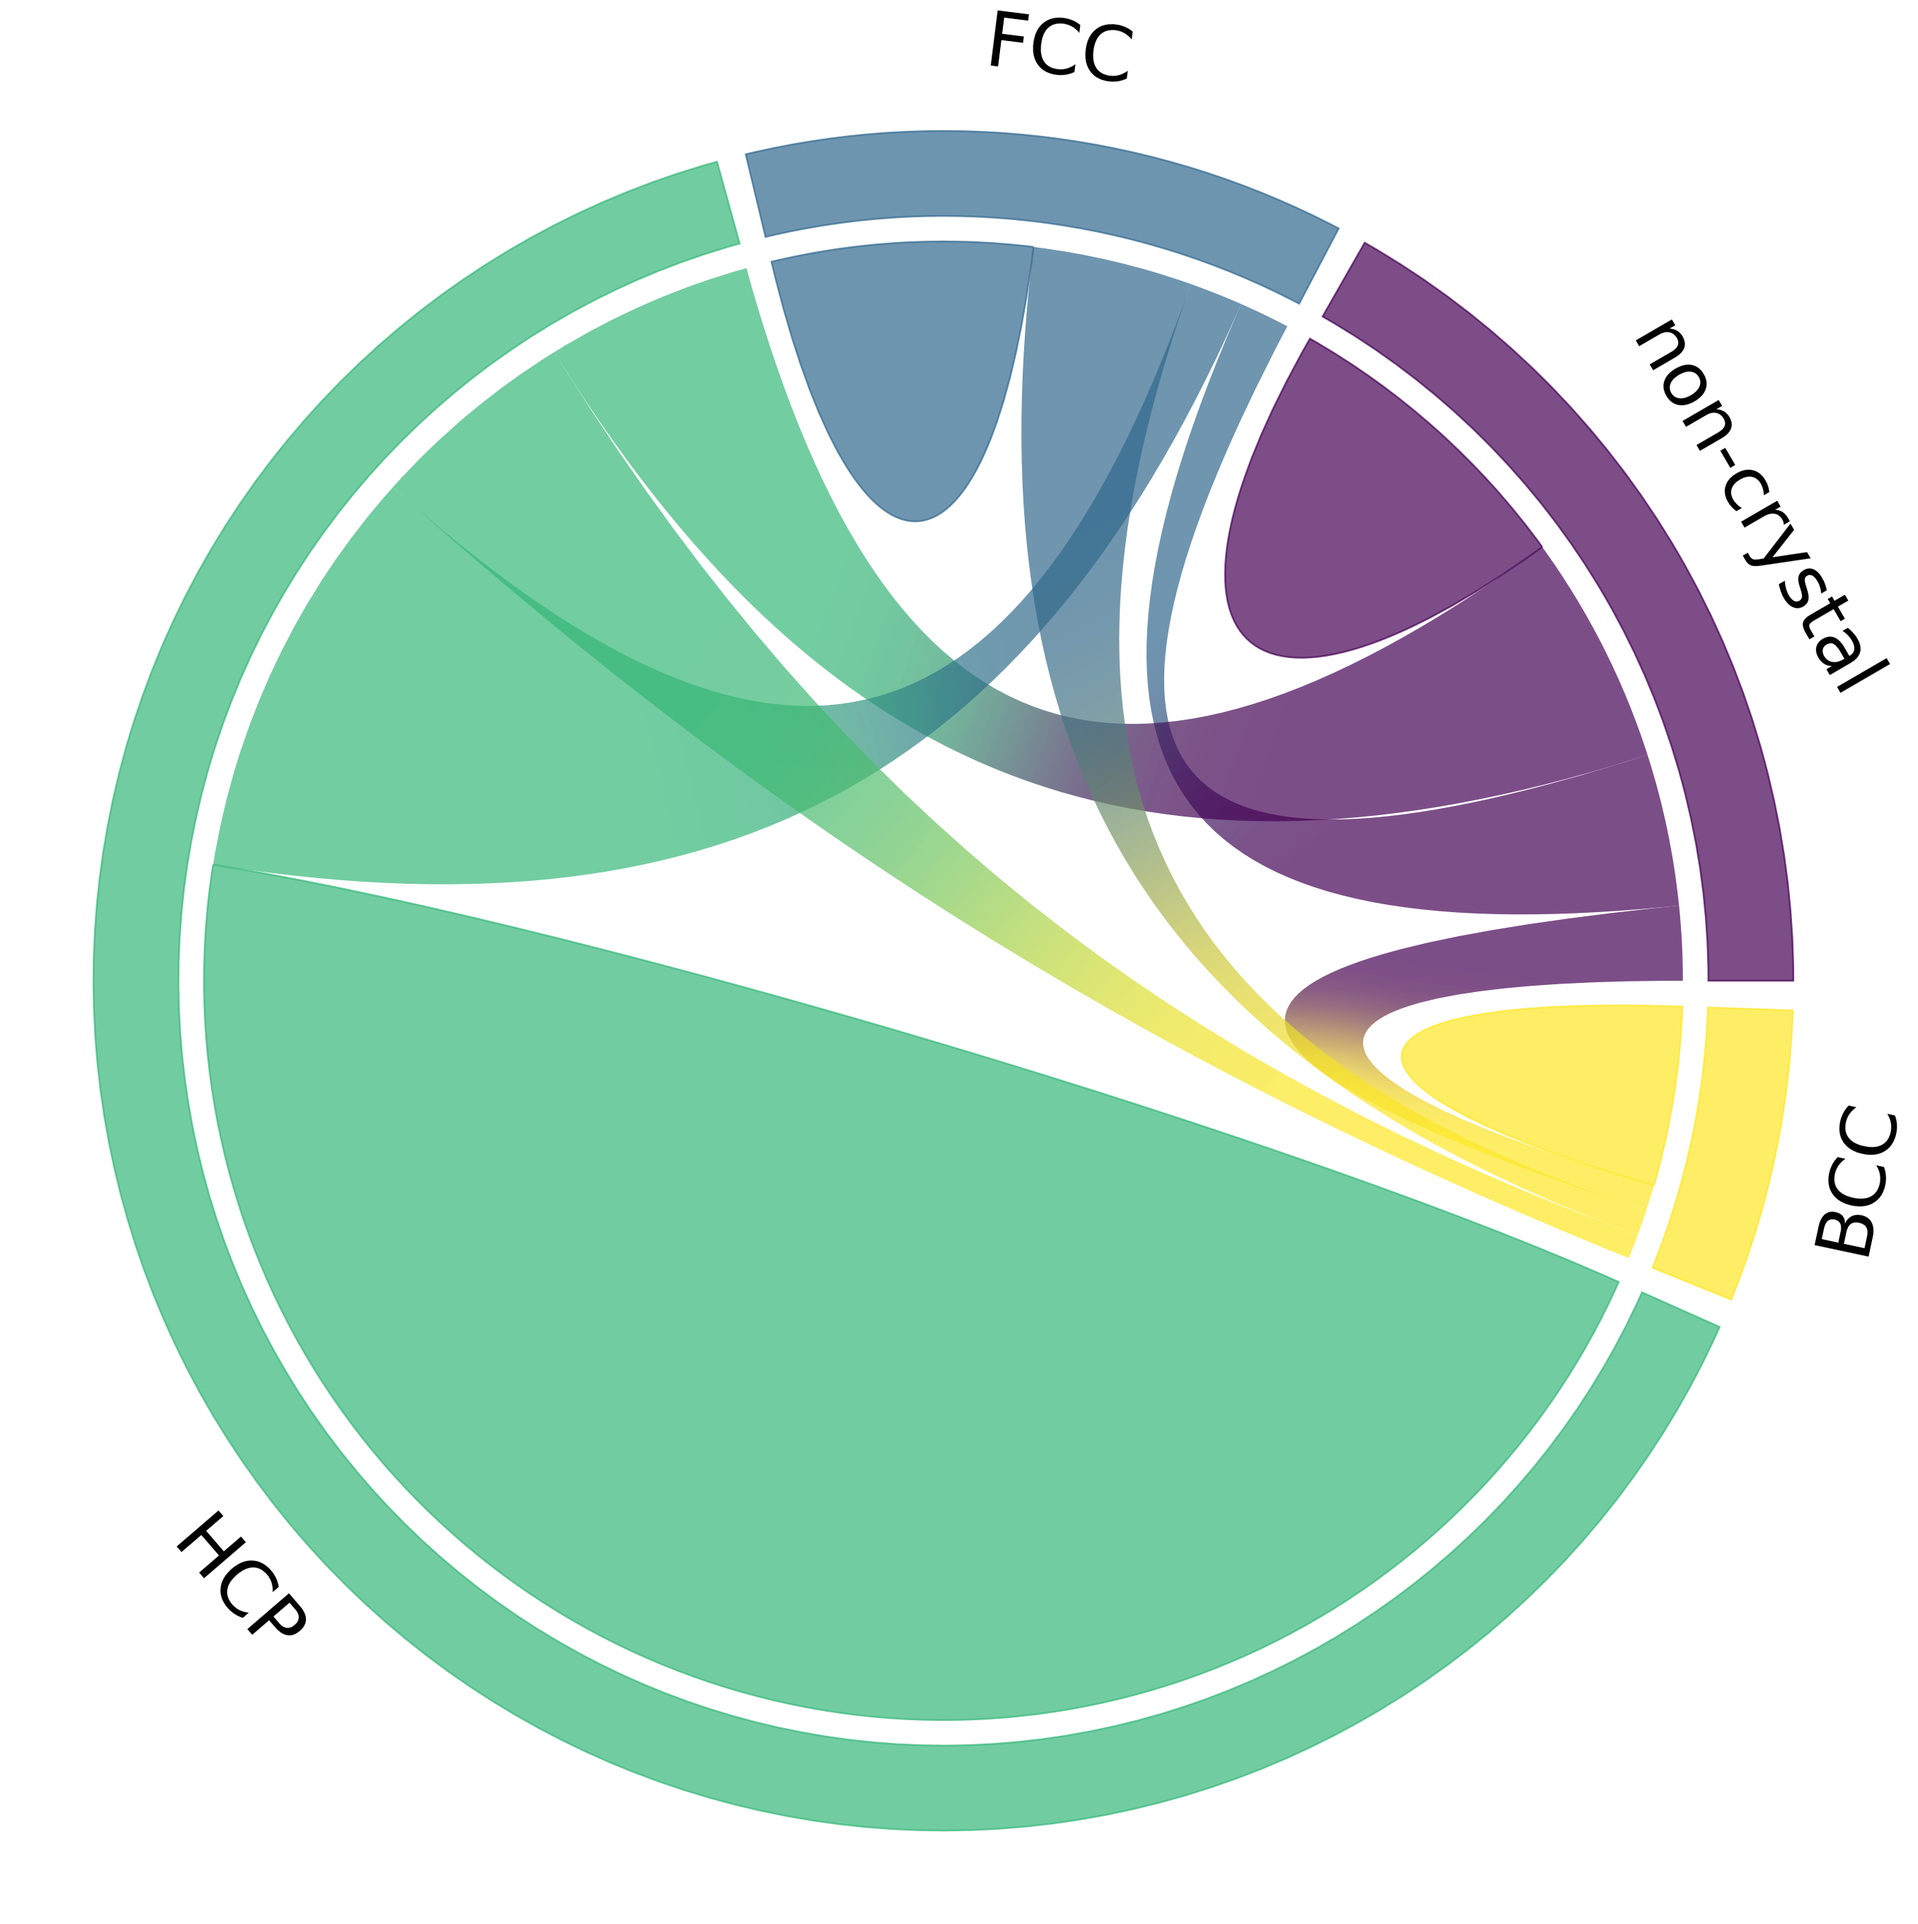
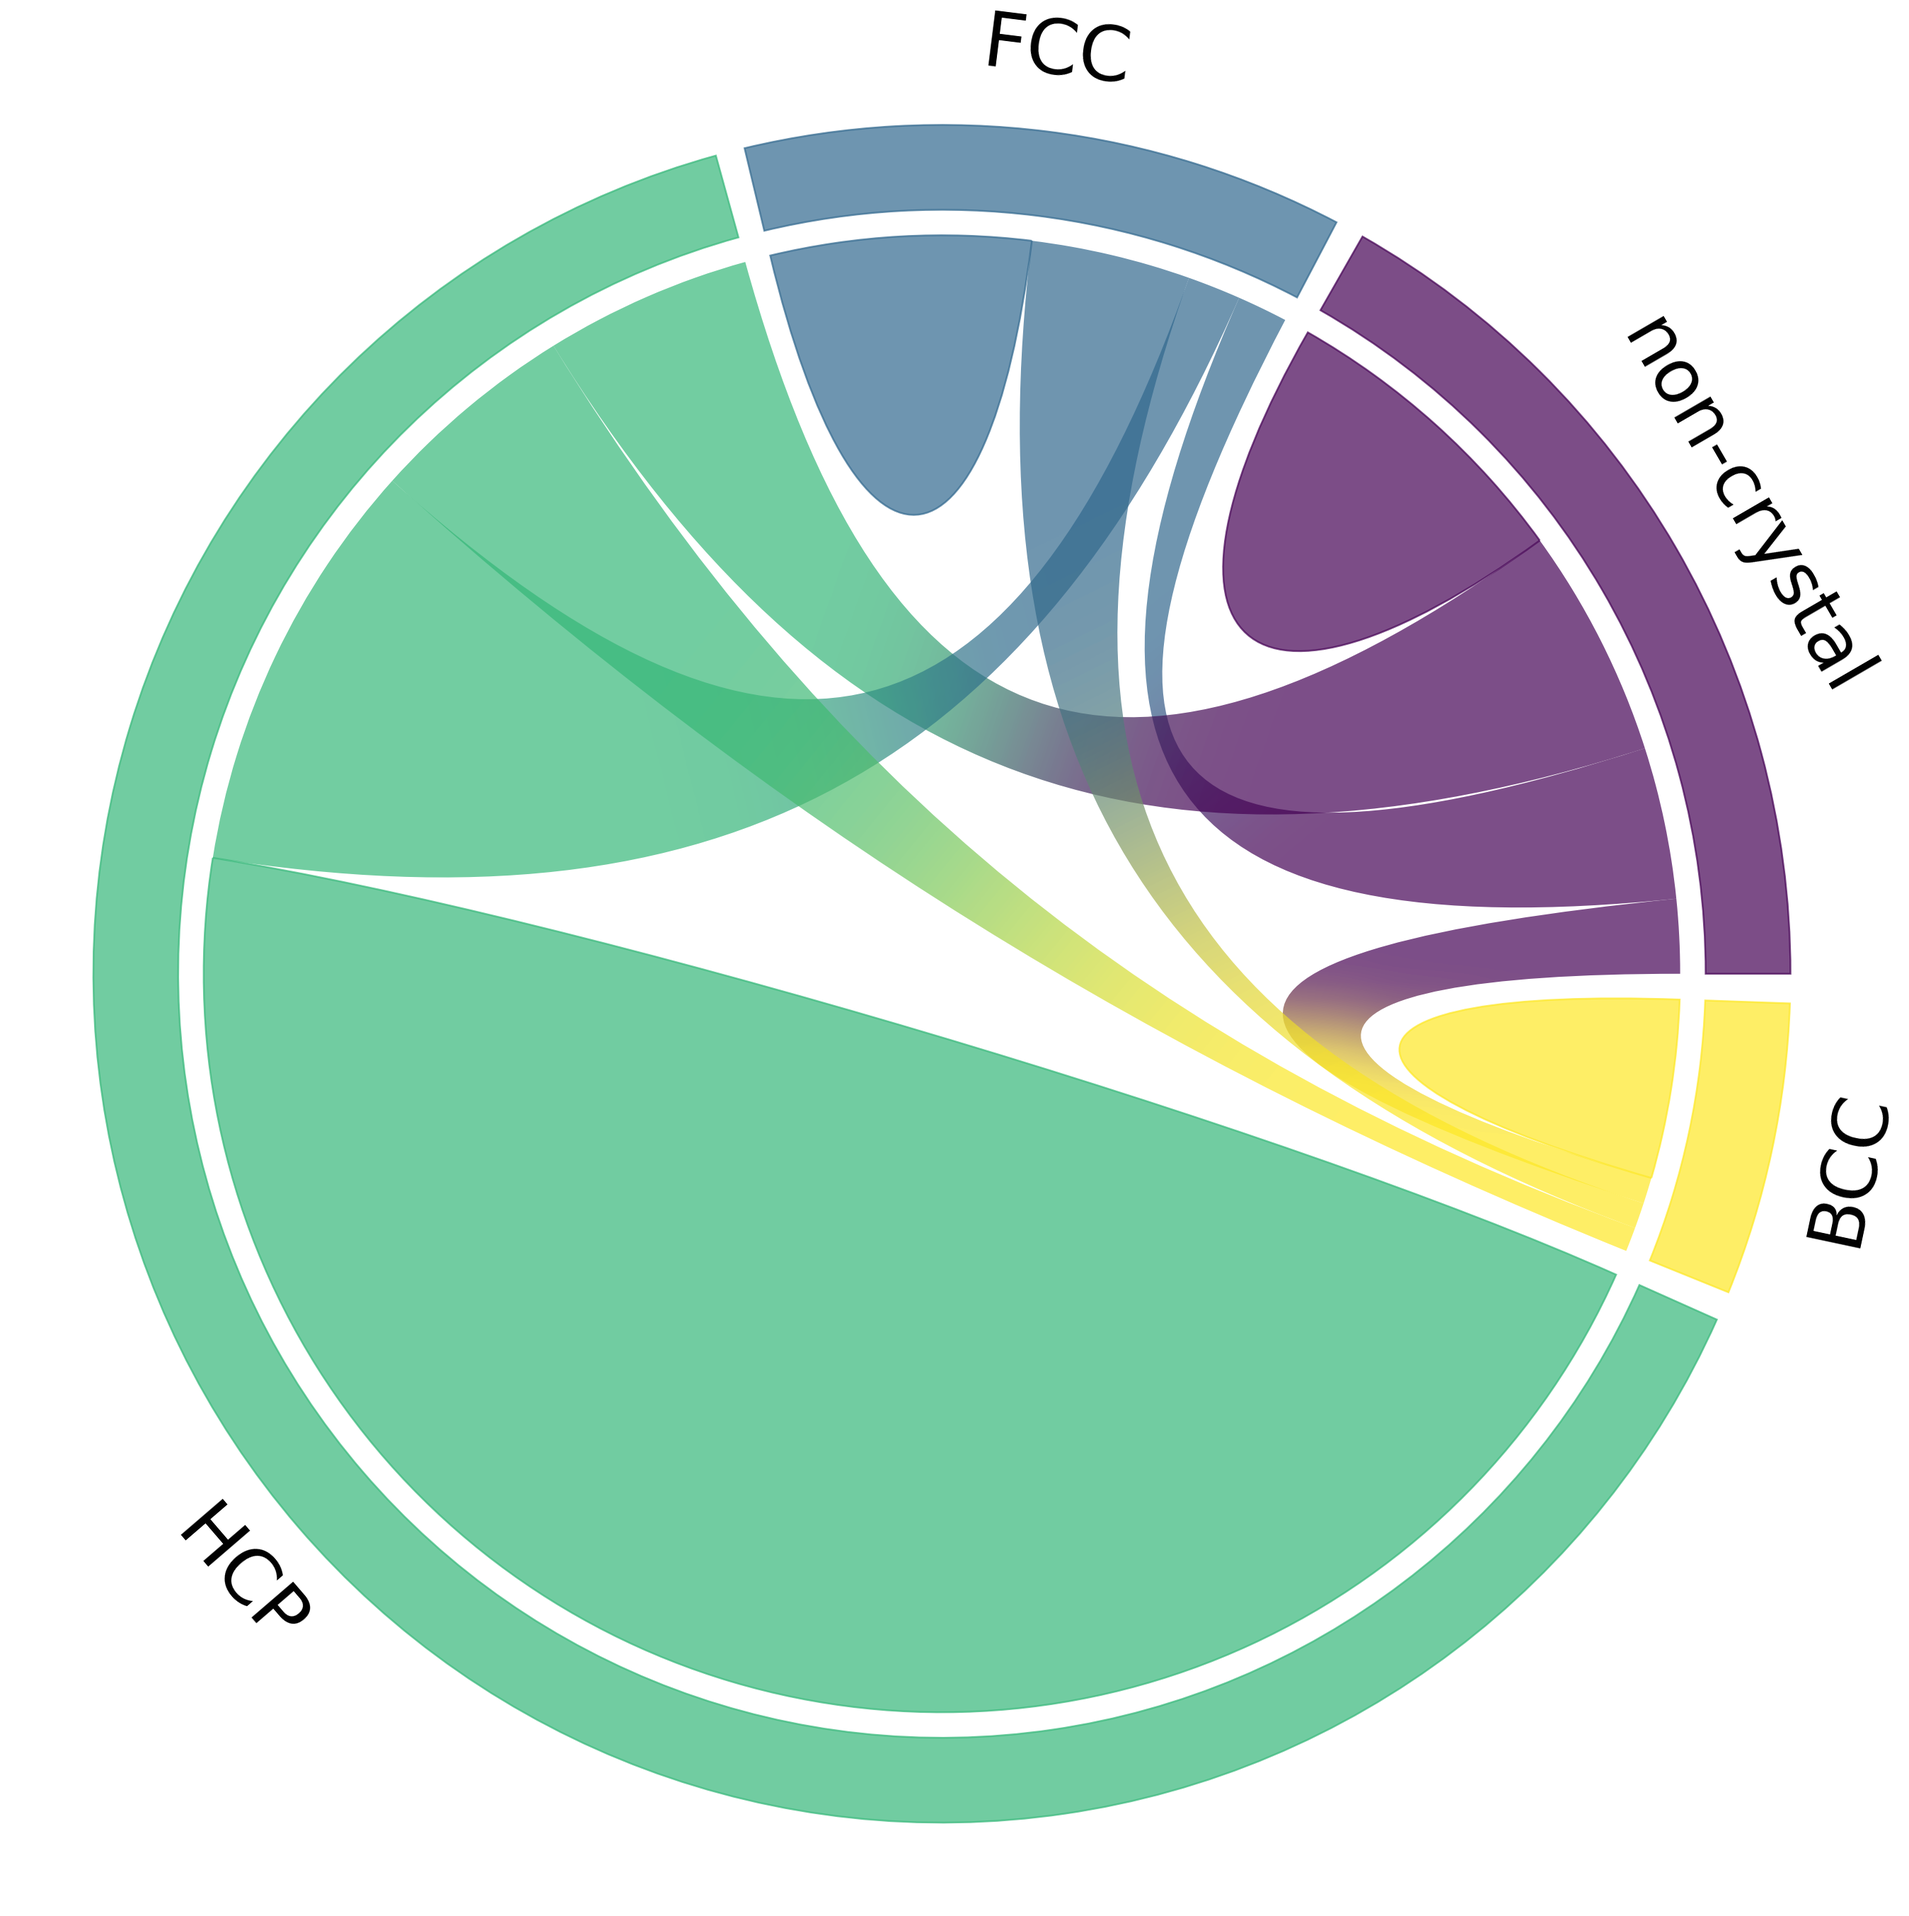
Improve name positioning and update example/Readme (#22)

diff --git a/chord_diagram.py b/chord_diagram.py
@@ -165,6 +165,7 @@ def chord_diagram(mat, names=None, order=None, width=0.1, pad=2., gap=0.03,
     pos = {}
     arc = []
     nodePos = []
+    rotation = []
     start = 0
 
     # compute all values and optionally apply sort
@@ -173,10 +174,12 @@ def chord_diagram(mat, names=None, order=None, width=0.1, pad=2., gap=0.03,
         arc.append((start, end))
         angle = 0.5*(start+end)
 
-        if -30 <= angle <= 210:
+        if -30 <= angle <= 180:
             angle -= 90
+            rotation.append(False)
         else:
             angle -= 270
+            rotation.append(True)
 
         nodePos.append(
             tuple(polar2xy(1.05, 0.5*(start + end)*np.pi/180.)) + (angle,))
@@ -251,9 +254,10 @@ def chord_diagram(mat, names=None, order=None, width=0.1, pad=2., gap=0.03,
             "fontsize": kwargs.get("fontsize", 16*0.8),
             "ha": "center",
             "va": "center",
+            "rotation_mode": "anchor"
         }
 
-        for i, (pos, name) in enumerate(zip(nodePos, names)):
+        for i, (pos, name, r) in enumerate(zip(nodePos, names, rotation)):
             rotate = rotate_names[i]
             pp = prop.copy()
 
@@ -261,15 +265,17 @@ def chord_diagram(mat, names=None, order=None, width=0.1, pad=2., gap=0.03,
                 angle  = np.average(arc[i])
                 rotate = 90
 
-                if 90 < angle < 210 or 270 < angle:
+                if 90 < angle < 180 or 270 < angle:
                     rotate = -90
 
                 if 90 < angle < 270:
                     pp["ha"] = "right"
                 else:
                     pp["ha"] = "left"
-
-                pp["rotation_mode"] = "anchor"
+            elif r:
+                pp["va"] = "top"
+            else:
+                pp["va"] = "bottom"
 
             ax.text(pos[0], pos[1], name, rotation=pos[2] + rotate, **pp)
 

diff --git a/example.py b/example.py
@@ -24,17 +24,21 @@ names = ['non-crystal', 'FCC', 'HCP', 'BCC']
 
 # plot different examples
 
-gradients = (True, False, False, True)
-gaps = (0.03, 0, 0.03, 0)
-sorts = ("size", "size", "distance", "distance")
+grads = (True, False, False, True)                # gradient
+gaps  = (0.03, 0, 0.03, 0)                        # gap value
+sorts = ("size", "size", "distance", "distance")  # sort type
+cclrs = (None, None, "slategrey", None)           # chord colors
+nrota = (False, False, True, True)                # name rotation
+cmaps = (None, None, None, "summer")              # colormap
 
-for grd, gap, sort in zip(gradients, gaps, sorts):
-    chord_diagram(flux, names, gap=gap, use_gradient=grd, sort=sort)
+for grd, gap, srt, cc, nr, cm in zip(grads, gaps, sorts, cclrs, nrota, cmaps):
+    chord_diagram(flux, names, gap=gap, use_gradient=grd, sort=srt,
+                  cmap=cm, chord_colors=cc, rotate_names=nr)
 
     str_grd = "_gradient" if grd else ""
 
     plt.savefig(
-        "images/example{}_sort-{}.png".format(str_grd, sort),
+        "images/example{}_sort-{}.png".format(str_grd, srt),
                 dpi=600, transparent=True, bbox_inches='tight',
                 pad_inches=0.02)
 

diff --git a/README.md b/README.md
@@ -7,6 +7,88 @@ Python module to plot chord diagrams with [matplotlib](https://matplotlib.org).
 Note that the repository has this structure (everything is on root level) to
 be able to be used more easily as a git submodule.
 
+## Example
+
+An example can be found in file `example.py`.
+Here is what the diagrams look like:
+* Upper left  >  no gradient, no gap, default colormap, default order
+* Upper right >  gradient, no gap, "summer" colormap, rotated names, sorted by distance
+* Lower left  >  no gradient but gap, single color for chords, rotated names, sorted by distance
+* Lower right >  gradient and gap, default colormap, default order
+
+<img src="images/example_sort-size.png" width="390"
+     alt="Chord diagram without gradient, sorted by size"><img
+     src="images/example_gradient_sort-distance.png" width="390"
+     alt="Chord diagram without gradient, sorted by distance">
+
+<img src="images/example_sort-distance.png" width="390"
+     alt="Chord diagram without gradient, sorted by distance"><img
+     src="images/example_gradient_sort-size.png" width="390"
+     alt="Chord diagram without gradient, sorted by size">
+
+
+## Main plot function
+
+```python
+
+def chord_diagram(mat, names=None, order=None, width=0.1, pad=2., gap=0.03,
+                  chordwidth=0.7, ax=None, colors=None, cmap=None, alpha=0.7,
+                  use_gradient=False, chord_colors=None, show=False, **kwargs):
+    """
+    Plot a chord diagram.
+
+    Parameters
+    ----------
+    mat : square matrix
+        Flux data, mat[i, j] is the flux from i to j
+    names : list of str, optional (default: no names)
+        Names of the nodes that will be displayed (must be ordered as the
+        matrix entries).
+    order : list, optional (default: order of the matrix entries)
+        Order in which the arcs should be placed around the trigonometric
+        circle.
+    width : float, optional (default: 0.1)
+        Width/thickness of the ideogram arc.
+    pad : float, optional (default: 2)
+        Distance between two neighboring ideogram arcs. Unit: degree.
+    gap : float, optional (default: 0)
+        Distance between the arc and the beginning of the cord.
+    chordwidth : float, optional (default: 0.7)
+        Position of the control points for the chords, controlling their shape.
+    ax : matplotlib axis, optional (default: new axis)
+        Matplotlib axis where the plot should be drawn.
+    colors : list, optional (default: from `cmap`)
+        List of user defined colors or floats.
+    cmap : str or colormap object (default: viridis)
+        Colormap that will be used to color the arcs and chords by default.
+        See `chord_colors` to use different colors for chords.
+    alpha : float in [0, 1], optional (default: 0.7)
+        Opacity of the chord diagram.
+    use_gradient : bool, optional (default: False)
+        Whether a gradient should be use so that chord extremities have the
+        same color as the arc they belong to.
+    chord_colors : str, RGB tuple, list, optional (default: None)
+        Specify color(s) to fill the chords differently from the arcs.
+        When the keyword is not used, chord colors default to the colomap given
+        by `colors`.
+        Possible values for `chord_colors` are:
+         * a single color or RGB tuple, e.g. "red" or ``(1, 0, 0)``; all chords
+           will have this color
+         * a list of colors, e.g. ``["red","green","blue"]``, one per node.
+           Each chord will get its color from its associated source node, or
+           from both nodes if `use_gradient` is True.
+    show : bool, optional (default: False)
+        Whether the plot should be displayed immediately via an automatic call
+        to `plt.show()`.
+    **kwargs : keyword arguments
+        Available kwargs are "fontsize" and "sort" (either "size" or
+        "distance"), "zero_entry_size" (in degrees, default: 0.5),
+        "rotate_names" (a bool or list of bools) to rotate (some of) the
+        names by 90°.
+    """
+```
+
+
 ## Usage and requirements
 
 Install using
@@ -25,68 +107,6 @@ installed automatically. If necessary, you can also install them by calling
     pip install -r requirements.txt
 
 
-## Main plot function
-
-```python
-def chord_diagram(mat, names=None, width=0.1, pad=2., gap=0., chordwidth=0.7,
-                  ax=None, colors=None, cmap=None, alpha=0.7,
-                  use_gradient=False, show=False, **kwargs):
-    """
-    Plot a chord diagram.
-
-    Parameters
-    ----------
-    mat : square matrix
-        Flux data, mat[i, j] is the flux from i to j
-    names : list of str, optional (default: no names)
-        Names of the nodes that will be displayed.
-    width : float, optional (default: 0.1)
-        Width/thickness of the ideogram arc.
-    pad : float, optional (default: 2)
-        Distance between two neighboring ideogram arcs. Unit: degree.
-    gap : float, optional (default: 0)
-        Distance between the arc and the beginning of the cord.
-    chordwidth : float, optional (default: 0.7)
-        Position of the control points for the chords, controlling their shape.
-    ax : matplotlib axis, optional (default: new axis)
-        Matplotlib axis where the plot should be drawn.
-    colors : list, optional (default: from `cmap`)
-        List of user defined colors or floats.
-    cmap : str or colormap object (default: viridis)
-        Colormap to use.
-    alpha : float in [0, 1], optional (default: 0.7)
-        Opacity of the chord diagram.
-    use_gradient : bool, optional (default: False)
-        Whether a gradient should be use so that chord extremities have the
-        same color as the arc they belong to.
-    show : bool, optional (default: False)
-        Whether the plot should be displayed immediately via an automatic call
-        to `plt.show()`.
-    **kwargs : keyword arguments
-        Available kwargs are "fontsize" and "sort" (either "size" or
-        "distance"), "zero_entry_size" (in degrees, default: 0.5),
-        "rotate_names" (a bool or list of bools) to rotate (some of) the
-        names by 90°.
-    """
-```
-
-## Example
-
-An example can be found in file `example.py`.
-Here is what the diagrams look like (with and without gradient and gap,
-up and down are sorted respectively by domain size and distance):
-
-<img src="images/example_sort-size.png" width="390"
-     alt="Chord diagram without gradient, sorted by size"><img
-     src="images/example_gradient_sort-size.png" width="390"
-     alt="Chord diagram without gradient, sorted by size">
-
-<img src="images/example_sort-distance.png" width="390"
-     alt="Chord diagram without gradient, sorted by distance"><img
-     src="images/example_gradient_sort-distance.png" width="390"
-     alt="Chord diagram without gradient, dorted by distance">
-
-
 ## Contributors
 
 * Original author: [@fengwangPhysics](https://github.com/fengwangPhysics)
@@ -96,15 +116,15 @@ up and down are sorted respectively by domain size and distance):
   [#12](https://github.com/Silmathoron/mpl_chord_diagram/pull/12))
 * Support sparse matrices: Tanguy Fardet (PR
   [#10](https://github.com/Silmathoron/mpl_chord_diagram/pull/10))
-* Improved color support:
+* Improved color support (colormaps, gradients, chord colors):
    - [@pakitochus](https://github.com/pakitochus) (PR
      [#1](https://github.com/Silmathoron/mpl_chord_diagram/pull/1))
    - Tanguy Fardet (PRs
-      [#4](https://github.com/Silmathoron/mpl_chord_diagram/pull/4) for
-      colors/colormaps and
+      [#4](https://github.com/Silmathoron/mpl_chord_diagram/pull/4),
       [#5](https://github.com/Silmathoron/mpl_chord_diagram/pull/5) &
-      [#7](https://github.com/Silmathoron/mpl_chord_diagram/pull/7) for
-      gradients)
+      [#7](https://github.com/Silmathoron/mpl_chord_diagram/pull/7))
+   - [gph82](https://github.com/gph82) (PR
+     [#18](https://github.com/Silmathoron/mpl_chord_diagram/pull/18))
 * Improved arcs and chords:
    - [@cy1110](https://github.com/cy1110) (PR
      [#2](https://github.com/Silmathoron/mpl_chord_diagram/pull/2))
